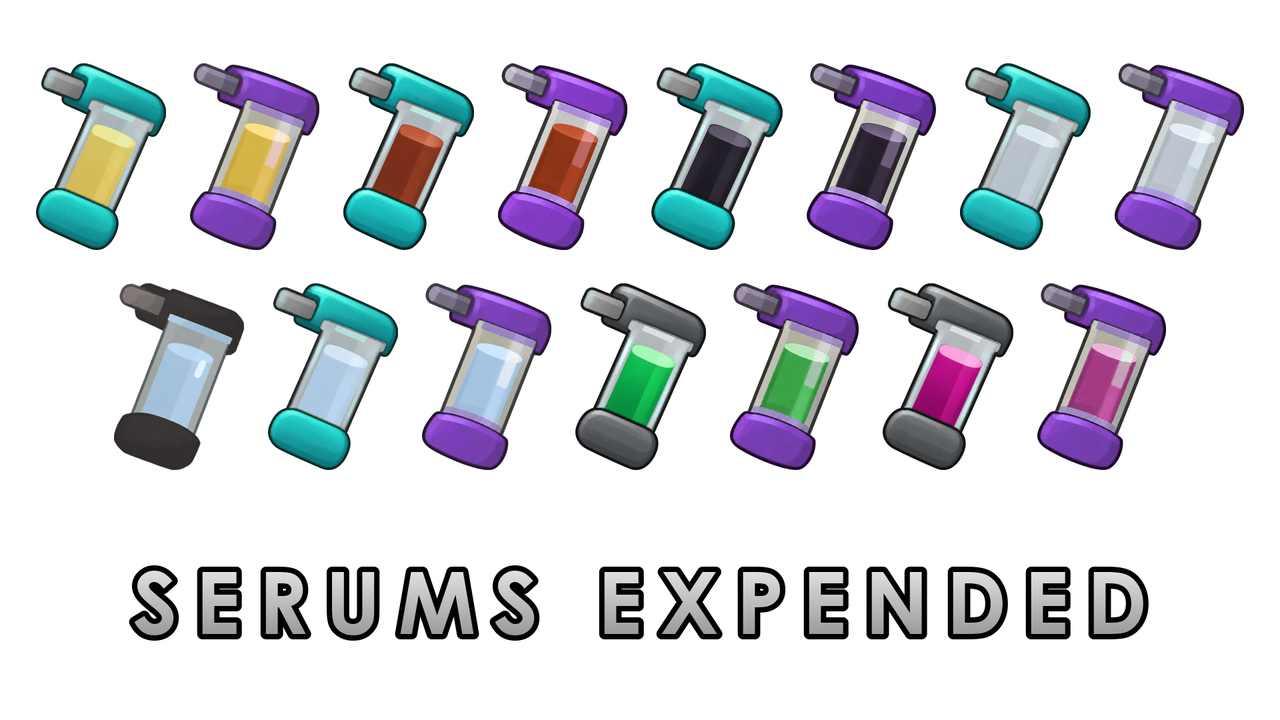
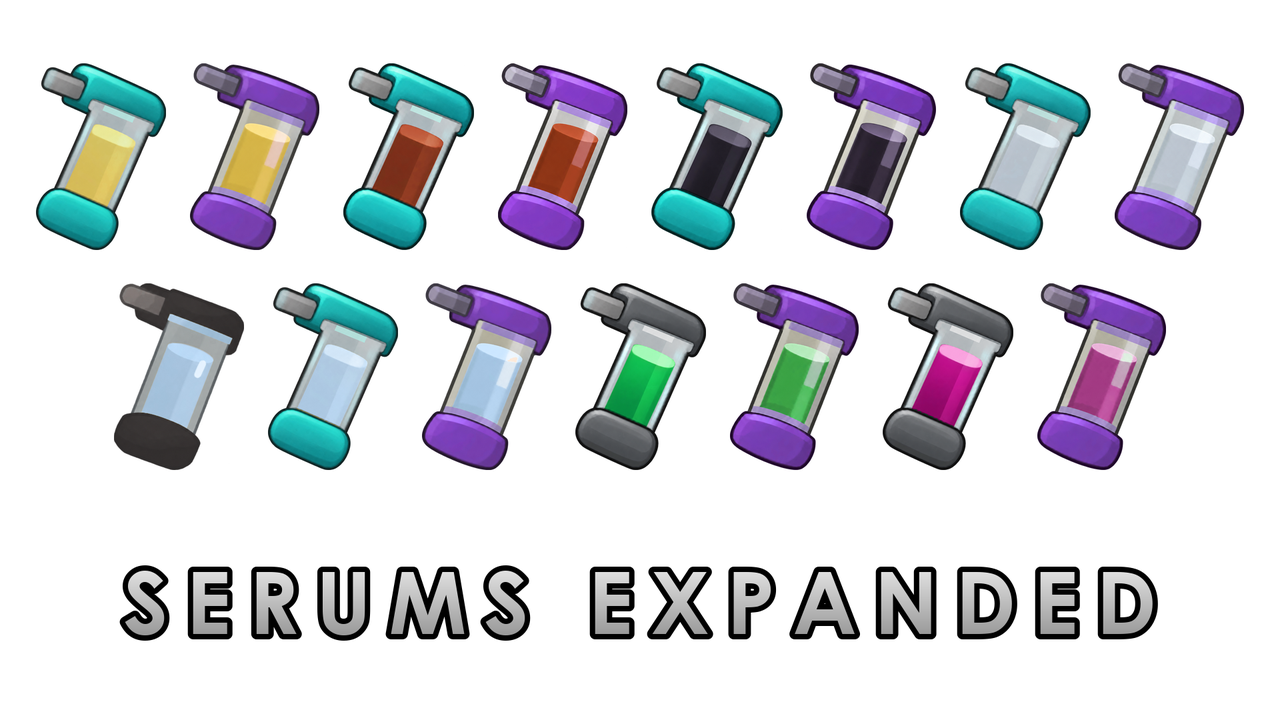
Rename mod to Serums Expanded
Update the mod name, settings category and log tag, refresh the
Workshop preview image and rebuild both game-version assemblies.
The package id and namespaces are unchanged.

Changed region(s): [[0.0938, 0.7639, 0.9062, 0.8861]]

diff --git a/Source/SerumsExpended/VanillaExpandedCompatibility.cs b/Source/SerumsExpended/VanillaExpandedCompatibility.cs
@@ -145,6 +145,6 @@ internal static class VanillaExpandedCompatibility
     {
         if (warned) return;
         warned = true;
-        Log.Warning("[Serums Expended] Optional Vanilla Expanded integration could not complete; custom passions are protected. " + error);
+        Log.Warning("[Serums Expanded] Optional Vanilla Expanded integration could not complete; custom passions are protected. " + error);
     }
 }

diff --git a/Source/SerumsExpended/SerumSettings.cs b/Source/SerumsExpended/SerumSettings.cs
@@ -28,7 +28,7 @@ public sealed class SerumsExpendedMod : Mod
     {
         Settings = GetSettings<SerumSettings>();
     }
-    public override string SettingsCategory() => "Serums Expended";
+    public override string SettingsCategory() => "Serums Expanded";
 
     public override void DoSettingsWindowContents(Rect rect)
     {

diff --git a/README.md b/README.md
@@ -1,4 +1,4 @@
-# Serums Expended
+# Serums Expanded
 
 Adds Refined and Advanced upgrades for Anomaly serums, plus Marksman, Regenesis and Neuroplastic serums.
 
